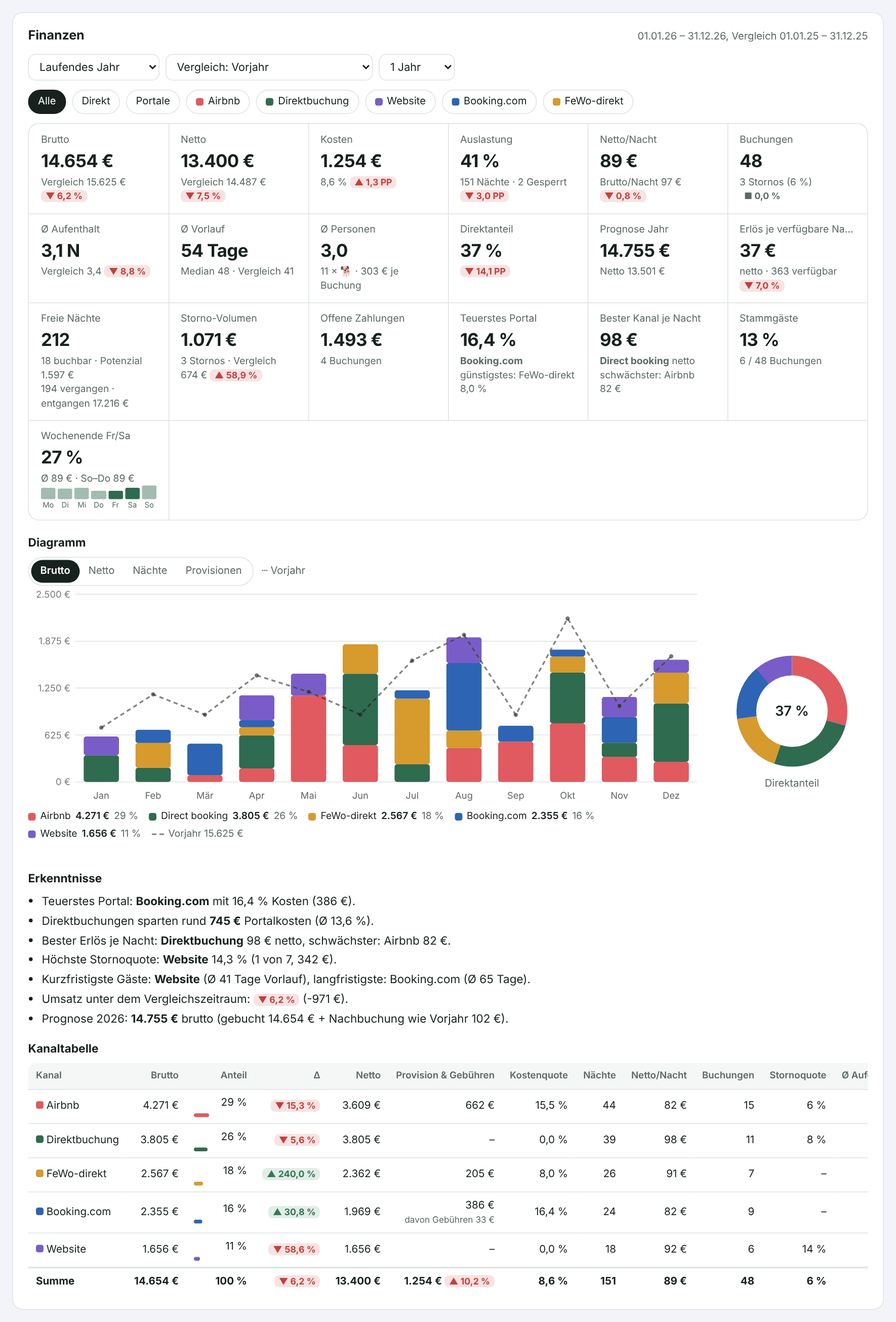
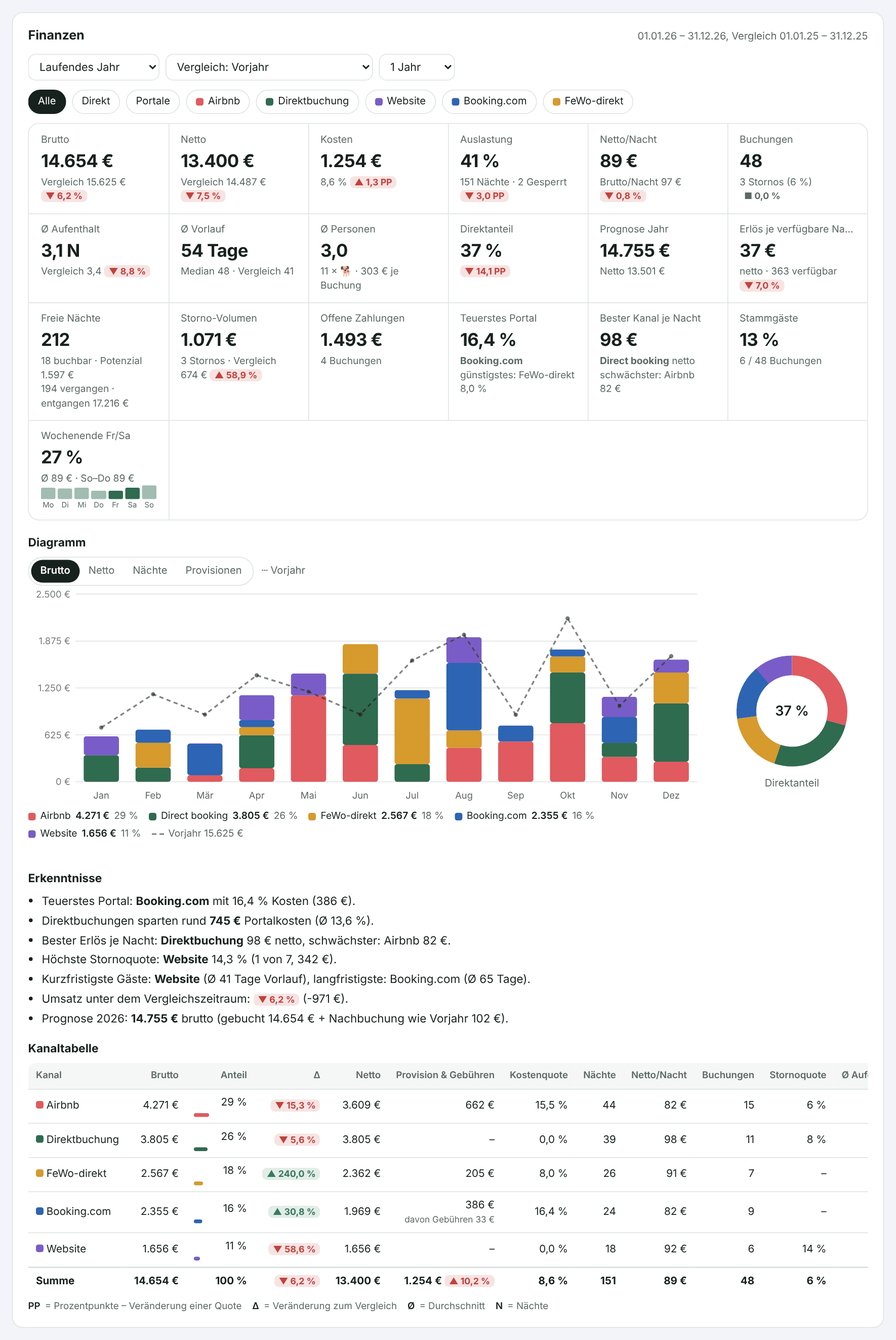
Beta 1.17.1b2: Abkürzungen in Legenden, Lücken über Belegungsplan anpassen, keine doppelte Wohnungsauswahl, Datentabelle ausgeblendet, simple_users, Rücksprung in der Kopfzeile
Claude-Session: https://claude.ai/code/session_01FCC4YWwdcrErRCiA1byYzo

diff --git a/custom_components/smoobu/www/smoobu-cards.js b/custom_components/smoobu/www/smoobu-cards.js
@@ -22,7 +22,7 @@
  * der Ausgabe maskiert (esc), damit kein fremdes HTML ausgeführt wird.
  */
 
-const SMOOBU_CARDS_VERSION = "1.17.1b1";
+const SMOOBU_CARDS_VERSION = "1.17.1b2";
 
 // ---------------------------------------------------------------------------
 // Texte (Deutsch; Englisch für HA-Oberflächen in anderer Sprache)
@@ -74,7 +74,8 @@ const EN = {
   "gebucht": "booked", "Gesperrt": "Blocked", "Monate": "months", "Diagramm": "Chart", "Sperrzeit": "Block",
   "Preis/Nacht": "Price/night", "Ersparnis Direkt": "Direct savings", "Kanaltabelle": "Channel table",
   "Neu laden": "Reload", "morgen": "tomorrow", "Heute abgereist": "Departed today", "Heute": "Today", "Ankunft": "Check-in", "Abfahrt": "Check-out", "Gäste": "Guests",
-  "Details": "Details", "In Smoobu öffnen": "Open in Smoobu", "Smoobu öffnen": "Open Smoobu",
+  "Details": "Details", "In Smoobu öffnen": "Open in Smoobu", "Smoobu öffnen": "Open Smoobu", "Zurück zu": "Back to", "Anpassen": "Adjust",
+  "Im Belegungsplan Mindestaufenthalt oder Preis setzen": "Set minimum stay or price in the occupancy plan",
   "Smoobu-Anmeldung öffnen – Buchung dort über die ID suchen": "Opens the Smoobu login – search the booking there by ID",
   "in Smoobu speichern": "save in Smoobu", "Nicht als erhalten markiert": "Not marked as received", "DRINGEND": "URGENT",
   "Antwort": "Reply", "Willkommen": "Welcome", "Anreisetag": "Arrival day", "Abreisetag": "Departure day", "Bitte um Bewertung": "Review request",
@@ -127,6 +128,30 @@ const PRICE_DE = { basePrice: ["Base price", "Grundpreis"], cleaningFee: ["Clean
   longStayDiscount: ["Long stay discount", "Langzeitrabatt"], extraGuestFee: ["Extra guest fee", "Zusatzgast"],
   discount: ["Discount", "Rabatt"], cityTax: ["City tax", "Kurtaxe"] };
 const priceName = (p) => { const m = PRICE_DE[p.typ]; return LANG === "de" && m && (!p.name || p.name === m[0]) ? m[1] : p.name || p.typ || ""; };
+// v1.17.1: Abkürzungen kurz erklärt – als Legendenzeile unter Kennzahlen/Diagrammen (gloss([...]))
+const GLOSSARY = {
+  ADR: "Ø Preis je belegter Nacht (brutto)",
+  RevPAR: "Umsatz je verfügbarer Nacht = ADR × Auslastung",
+  "Netto-RevPAR": "Netto (nach Provision und Gebühren) je verfügbarer Nacht",
+  PP: "Prozentpunkte – Veränderung einer Quote",
+  n: "Anzahl Buchungen, auf denen der Wert beruht",
+  "Vgl.": "Vergleichszeitraum",
+  "Ø": "Durchschnitt",
+  N: "Nächte",
+  "Δ": "Veränderung zum Vergleich",
+  Pace: "Buchungstempo: Buchungsstand am gleichen Tag vor dem Aufenthalt",
+  "P10–P90": "Spanne, in der 80 % der Vorjahres-Nachbuchungen lagen",
+  KW: "Kalenderwoche",
+};
+const GLOSSARY_EN = {
+  ADR: "average price per occupied night (gross)", RevPAR: "revenue per available night = ADR × occupancy",
+  "Netto-RevPAR": "net (after commission and fees) per available night", PP: "percentage points – change of a rate",
+  n: "number of bookings the value is based on", "Vgl.": "comparison period", "Ø": "average", N: "nights",
+  "Δ": "change vs. comparison", Pace: "booking pace: bookings on hand the same day before the stay",
+  "P10–P90": "range covering 80 % of prior years' late bookings", KW: "calendar week",
+};
+const gloss = (keys) => `<div class="legend gloss">${keys.filter((k) => GLOSSARY[k]).map((k) =>
+  `<span><b>${esc(k)}</b> = ${esc(LANG === "de" ? GLOSSARY[k] : GLOSSARY_EN[k])}</span>`).join("")}</div>`;
 const OCCASION_LABEL = { antwort: "Antwort", willkommen: "Willkommen", anreise: "Anreisetag", abreise: "Abreisetag", bewertung: "Bitte um Bewertung" };
 const SOURCE_LABEL = { verlauf: "aus dem Verlauf", smoobu: "aus Smoobu-Vorlage", gesendet: "gesendet", vorschlag: "KI-Vorschlag",
   bearbeitet: "bearbeitet", wissensluecke: "Wissenslücke", manuell: "manuell" };
@@ -209,6 +234,14 @@ const CSS_VARS = (p) => `--sm-bg:${p.bg};--sm-surf:${p.surf};--sm-surf2:${p.surf
   --sm-line:${p.line};--sm-accent:${p.acc};--sm-acc-ink:${p.accInk};--sm-good:${p.good};--sm-bad:${p.bad};--sm-warn:${p.warn};
   --sm-block:${p.block};`;
 
+// v1.17.1: Übergabe Übersicht → Belegungsplan (nur für diesen Tab, wird beim Lesen gelöscht)
+const Preselect = {
+  set(v) { try { sessionStorage.setItem("smoobu-preselect", JSON.stringify(v)); } catch (e) { /* privat/gesperrt */ } },
+  take() {
+    try { const v = JSON.parse(sessionStorage.getItem("smoobu-preselect") || "null"); sessionStorage.removeItem("smoobu-preselect"); return v; }
+    catch (e) { return null; }
+  },
+};
 function lsGet(k, d) { try { return localStorage.getItem(k) ?? d; } catch (e) { return d; } }
 function lsSet(k, v) { try { localStorage.setItem(k, v); } catch (e) { /* privates Fenster o. Ä. */ } }
 
@@ -258,6 +291,13 @@ const AptSel = {
   set value(v) { lsSet(APT_KEY, String(v)); this.listeners.forEach((l) => l()); },
 };
 
+// v1.17.1: Zeigt eine Kopfzeile auf dieser Seite schon die Wohnungsauswahl? Dann blendet die
+// Statistik ihre eigene (gleiche Einstellung AptSel) aus – keine doppelte Auswahl auf einer Seite
+const HeaderApts = {
+  n: 0, listeners: new Set(),
+  add() { this.n++; this.listeners.forEach((l) => l()); },
+  remove() { this.n = Math.max(0, this.n - 1); this.listeners.forEach((l) => l()); },
+};
 // Virtuelle „Wohnung“ für die Gesamtansicht: Kanäle aller Wohnungen, Währung der ersten
 function allApartment(info) {
   const ws = info.wohnungen;
@@ -353,6 +393,8 @@ const BASE_CSS = `
   h3 { margin: 18px 0 8px; font-size: .95rem; font-weight: 650; color: var(--sm-ink); }
   .sub { color: var(--sm-muted); font-size: .84rem; }
   .row { display: flex; gap: 10px; flex-wrap: wrap; align-items: center; }
+  .legend.gloss { margin-top: 6px; font-size: .78rem; color: var(--sm-muted); gap: 4px 14px; }
+  .legend.gloss b { color: var(--sm-ink); font-weight: 600; }
   .grow { flex: 1 1 auto; min-width: 0; }
   .head { display: flex; gap: 12px; flex-wrap: wrap; align-items: baseline; margin-bottom: 12px; }
   .head h2 { flex: 1 1 auto; }
@@ -716,7 +758,8 @@ function stayStatus(apt, bookings, today, now = "00:00") {
 // Übersicht (v1.15.0 neu gestaltet)
 // ===========================================================================
 class SmoobuOverviewCard extends SmoobuCard {
-  static defaults = { title: "", entities: [], upcoming: 5, gap_days: 60, band_days: 42 };
+  // belegung_path (v1.17.1): Seite mit dem Belegungsplan für „Anpassen“ bei nicht buchbaren Lücken; "" = kein Button
+  static defaults = { title: "", entities: [], upcoming: 5, gap_days: 60, band_days: 42, belegung_path: "smoobu-belegung" };
   // v1.17.1: Status hängt jetzt an der Uhrzeit (Check-in/-out). Ohne neue Daten zeichnet die Karte nicht neu –
   // ein offenes Tablet bliebe sonst bis zum nächsten Datenabruf auf „Anreise um 17:30“ stehen. Daher jede
   // Minute prüfen und nur neu zeichnen, wenn sich aktueller/nächster Gast einer Wohnung tatsächlich ändert.
@@ -1094,6 +1137,8 @@ class SmoobuOverviewCard extends SmoobuCard {
       const pr = prices.length ? (lo === hi ? money(lo, cur) : `${num(lo)}–${money(hi, cur)}`) : "";
       return `<div class="li"><div class="m"><b>${fdowLong(g.von)} bis ${fdowLong(g.bis)}${this.multi ? codeTag(g.w.kuerzel) : ""}</b>
         <span>${plural(g.naechte, t("Nacht"), t("Nächte"))} frei${g.buchbar ? (pr ? `, ${pr}` : "") : `, ${t("Mindestaufenthalt")} ${g.min}`}</span></div>
+        ${g.buchbar || !this._config.belegung_path ? "" : `<button class="lnk" data-fix="${g.w.apartment_id}|${g.von}|${iso(addDays(D(g.bis), -1))}|${g.naechte}"
+          title="${t("Im Belegungsplan Mindestaufenthalt oder Preis setzen")}">${t("Anpassen")}</button>`}
         <span class="badge ${g.buchbar ? "good" : "bad"}">${t(g.buchbar ? "buchbar" : "nicht buchbar")}</span></div>`;
     }).join("");
     const open = guests.filter((b) => status[b.id]?.offen);
@@ -1167,6 +1212,15 @@ class SmoobuOverviewCard extends SmoobuCard {
       if (!(await markPayment(this.store, b, el.dataset.pay, true, this._payCur))) el.disabled = false;
     }));
     root.querySelectorAll("[data-apt]").forEach((el) => el.addEventListener("click", () => { AptSel.value = Number(el.dataset.apt); }));
+    // v1.17.1: nicht buchbare Lücke → Belegungsplan mit markierten Tagen und vorausgefülltem Mindestaufenthalt
+    root.querySelectorAll("[data-fix]").forEach((el) => el.addEventListener("click", () => {
+      const [apt, von, bis, n] = el.dataset.fix.split("|");
+      Preselect.set({ apt: Number(apt), von, bis, min: Number(n) });
+      const path = this._config.belegung_path;
+      const parts = location.pathname.split("/").filter(Boolean);
+      history.pushState(null, "", path.startsWith("/") ? path : `/${parts[0] || "lovelace"}/${path}`);
+      window.dispatchEvent(new CustomEvent("location-changed", { detail: { replace: false } }));
+    }));
     root.querySelectorAll("[data-entity]").forEach((el) => el.addEventListener("click", () => {
       this.dispatchEvent(new CustomEvent("hass-more-info", { detail: { entityId: el.dataset.entity }, bubbles: true, composed: true }));
     }));
@@ -1238,6 +1292,12 @@ class SmoobuTimelineCard extends SmoobuCard {
   }
   body({ apt, apts, today, start, end, bookings, ratesBy }) {
     const cur = apt.currency;
+    // v1.17.1: Vorauswahl aus der Übersicht („Anpassen“ bei nicht buchbarer Lücke) einmalig übernehmen
+    const pre = this._config.actions ? Preselect.take() : null;
+    if (pre && apts.some((w) => w.apartment_id === pre.apt || !this.multi)) {
+      Object.assign(this._state, { selStart: pre.von, selEnd: pre.bis, selApt: this.multi ? pre.apt : null, panel: "rate", preMin: pre.min });
+      if (pre.von < iso(start) || pre.von >= iso(end)) Preselect.set(pre); // außerhalb der angezeigten Monate: nicht verbrauchen
+    }
     const { selStart, selEnd, selApt } = this._state;
     const lo = selStart && selEnd ? (selStart < selEnd ? selStart : selEnd) : selStart;
     const hi = selStart && selEnd ? (selStart < selEnd ? selEnd : selStart) : selStart;
@@ -1295,7 +1355,7 @@ class SmoobuTimelineCard extends SmoobuCard {
         ${p === "block" ? `<input data-k="notice" placeholder="${t("Grund (optional)")}" style="width:180px">
             <button class="btn" data-act="do-block">${t("Sperren")}</button>`
           : p === "rate" ? `<label>${t("Preis/Nacht")} <input data-k="price" type="number" min="1" step="1"></label>
-            <label>${t("Mindestaufenthalt")} <input data-k="min" type="number" min="1" max="90" style="width:70px"></label>
+            <label>${t("Mindestaufenthalt")} <input data-k="min" type="number" min="1" max="90" style="width:70px" value="${this._state.preMin || ""}"></label>
             <button class="btn" data-act="do-rate">${t("Speichern")}</button>`
           : `<button class="btn" data-act="block">🔒 ${t("Sperren")}</button><button class="btn" data-act="rate">€ ${t("Preis setzen")}</button>`}
         <button class="btn flat" data-act="clear">${t("Abbrechen")}</button></div>`
@@ -1333,7 +1393,7 @@ class SmoobuTimelineCard extends SmoobuCard {
     if (a === "prev") return this.setState({ offset: off - 1 }, true);
     if (a === "next") return this.setState({ offset: off + 1 }, true);
     if (a === "now") return this.setState({ offset: 0 }, true);
-    if (a === "clear") return this.setState({ selStart: null, selEnd: null, panel: null });
+    if (a === "clear") return this.setState({ selStart: null, selEnd: null, panel: null, preMin: null });
     if (a === "block" || a === "rate") return this.setState({ panel: a });
     const [lo, hi] = this.range();
     // Aktionen gehören immer zu genau einer Wohnung: der markierten Zeile
@@ -1351,7 +1411,7 @@ class SmoobuTimelineCard extends SmoobuCard {
           ...(price ? { price: Number(price) } : {}), ...(min ? { min_stay: Number(min) } : {}) });
       }
       toast(t("Gespeichert"));
-      this.setState({ selStart: null, selEnd: null, selApt: null, panel: null }, true);
+      this.setState({ selStart: null, selEnd: null, selApt: null, panel: null, preMin: null }, true);
     } catch (e) {
       toast(`${t("Fehler")}: ${e.message || e}`);
     }
@@ -1927,7 +1987,8 @@ class SmoobuAnalyticsCard extends SmoobuCard {
         <tfoot><tr><td>${t("Summe")}</td><td class="n">${money(r.brutto, cur)}</td><td class="n">100 %</td><td class="n">${delta(dp.brutto)}</td>
           <td class="n">${money(r.netto, cur)}</td><td class="n">${money(r.kosten, cur)} ${delta(dp.kosten, "%", true)}</td><td class="n">${pct(r.kostenquote_prozent)}</td><td class="n">${r.naechte}</td>
           <td class="n">${money(r.netto_pro_nacht, cur)}</td><td class="n">${r.buchungen}</td><td class="n">${pct(r.stornoquote_prozent, 0)}</td>
-          <td class="n">${num(r.aufenthalt_schnitt, 1)}</td><td class="n">${num(r.vorlauf_schnitt)}</td><td class="n">${num(r.personen_schnitt, 1)}</td></tr></tfoot></table></div>`;
+          <td class="n">${num(r.aufenthalt_schnitt, 1)}</td><td class="n">${num(r.vorlauf_schnitt)}</td><td class="n">${num(r.personen_schnitt, 1)}</td></tr></tfoot></table></div>
+      ${gloss(["PP", "Δ", "Ø", "N"])}`;
   }
   bind(root) {
     const s = this._state;
@@ -2430,15 +2491,14 @@ class SmoobuAssistantCard extends SmoobuCard {
           : `<span class="badge ${st.aktiv ? "good" : "bad"}" title="Automatische Antwortvorschläge">${st.aktiv ? "aktiv" : "aus"}</span>`}
         <span class="badge" title="${esc(st.ki || "")}">${esc((st.ki && this._hass?.states[st.ki]?.attributes?.friendly_name) || st.ki || t("keine KI"))}</span></div>
       ${st.ki_erlaubt === false ? `<div class="lockinfo">🔒 ${esc(st.ki_sperre || t("KI in den Integrationsoptionen deaktiviert"))}.
-        Wissensdatenbank, Lernen, Import, Tagesbriefing und Lücken funktionieren weiter – es gehen keine Daten an einen KI-Anbieter.</div>` : ""}
+        Wissensdatenbank, Lernen, Import und Tagesbriefing funktionieren weiter – es gehen keine Daten an einen KI-Anbieter.</div>` : ""}
       ${st.fehler && st.ki_erlaubt !== false ? `<div class="err">Letzter Fehler: ${esc(st.fehler)}</div>` : ""}
       <div class="grid" style="margin-top:8px">
         ${tile("Offene Vorschläge", num(st.offen.length))}
         ${tile("Wissen", num(st.wissen.filter((w) => w.status === "aktiv").length), `${st.wissen.filter((w) => w.status === "vorschlag").length} zur Freigabe`)}
         ${tile("Lernbeispiele", num(st.beispiele_anzahl))}
-        ${tile("Nicht buchbare Lücken", num(st.luecken.length))}
       </div>
-      <div class="tabs">${[["wissen", "📚 Wissen"], ["vorschlaege", "✨ Vorschläge"], ["beispiele", "🎓 Gelernt"], ["luecken", "📅 Lücken"], ["import", "⬇ Import"]]
+      <div class="tabs">${[["wissen", "📚 Wissen"], ["vorschlaege", "✨ Vorschläge"], ["beispiele", "🎓 Gelernt"], ["import", "⬇ Import"]]
         .map(([k, l]) => `<button class="chip" data-tab="${k}" aria-pressed="${tab === k}">${l}</button>`).join("")}</div>`;
     let body = "";
     if (tab === "wissen") body = this.knowledge(st);
@@ -2674,7 +2734,13 @@ function statsLayout() {
   const order = (Array.isArray(l.order) ? l.order : []).filter((id) => known.includes(id));
   for (const id of known) if (!order.includes(id)) order.push(id); // neue Module hinten anhängen
   const hidden = (Array.isArray(l.hidden) ? l.hidden : []).filter((id) => known.includes(id));
-  return { order, hidden, custom };
+  // v1.17.1: Datentabelle doppelt die Seite „Buchungen“ (inkl. CSV) → einmalig ausblenden; über ↺ wieder einblendbar
+  if ((l.defaults || 0) < 2) {
+    if (!hidden.includes("tabelle")) hidden.push("tabelle");
+    try { lsSet(STATS_LAYOUT_KEY, JSON.stringify({ ...l, order, hidden, custom, defaults: 2 })); } catch (e) { /* egal */ }
+  }
+  // defaults mitgeben, sonst blendet ein späteres saveLayout() die bewusst eingeblendete Tabelle wieder aus
+  return { order, hidden, custom, defaults: 2 };
 }
 const saveLayout = (l) => lsSet(STATS_LAYOUT_KEY, JSON.stringify(l));
 
@@ -2860,7 +2926,7 @@ const STATS_MODULES = {
       return panel(t("Belegung nach Wochentag"), `${t("Nacht von … auf …, je Kalenderwoche")}`,
         `<div class="split2"><div class="scroll"><div class="hm" style="${cols}">${html}</div>
           <div class="legend"><span class="scale"><i style="background:linear-gradient(90deg, color-mix(in srgb, var(--sm-accent) 6%, var(--sm-surf2)), var(--sm-accent))"></i>0 – 100 %</span>
-          <span>${t("Zahlen oben = Kalenderwoche")}</span></div></div>
+          <span>${t("Zahlen oben = Kalenderwoche")}</span></div>${gloss(["ADR", "n"])}</div>
           <div><div class="kl" style="margin-bottom:6px">${t("Auslastung je Wochentag")}</div>${bars}</div></div>`);
     },
   },
@@ -3190,7 +3256,7 @@ class SmoobuStatsCard extends SmoobuCard {
   // Optionen: period (monat|quartal|saison|jahr), compare (stichtag|vorjahr|vorperiode),
   // matrix_exclude_years (aus dem Ø der Saison-Matrix ausgenommene Jahre, Standard 2020 = Lockdown),
   // matrix_since (erstes Jahr der Matrix, Standard = erste Anreise in den Daten)
-  static defaults = { title: "", period: "jahr", compare: "stichtag", matrix_exclude_years: [2020], matrix_since: null };
+  static defaults = { title: "", period: "jahr", compare: "stichtag", matrix_exclude_years: [2020], matrix_since: null, simple_users: [] };
   static initialState = (c) => ({ ptype: c.period, anchor: null, from: null, to: null, compare: c.compare, channels: [],
     raster: "auto", focus: "umsatz", matrix: "auslastung", paceYear: null, edit: false, builder: false, tableAll: false,
     bzMeasure: "naechte", bzBasis: "alle", bzView: "kalender", // Standard „Gebucht im → für“ (Wunsch Betreiber 16.11.2026)
@@ -3336,11 +3402,23 @@ class SmoobuStatsCard extends SmoobuCard {
       .fc .big { font-size: 1.8rem; }
     }
   `;
-  // Werkbank oder Einfach (je Gerät; ohne gespeicherte Wahl: schmale Fenster = Einfach)
+  // Werkbank oder Einfach (je Gerät; ohne gespeicherte Wahl: Nutzer aus simple_users oder schmale Fenster = Einfach)
+  // v1.17.1: simple_users = Liste von HA-Benutzernamen oder -IDs, die ohne eigene Wahl mit „Einfach“ starten
   get mode() {
     const m = lsGet(STATS_MODE_KEY, "");
     if (m === "werkbank" || m === "einfach") return m;
+    const u = this._hass?.user || {};
+    const su = (this._config.simple_users || []).map((x) => String(x).toLowerCase());
+    if (su.includes(String(u.name || "").toLowerCase()) || su.includes(String(u.id || "").toLowerCase())) return "einfach";
     return (window.innerWidth || 1200) < 700 ? "einfach" : "werkbank";
+  }
+  // v1.17.1: neu zeichnen, wenn eine Kopfzeile mit Wohnungsauswahl erscheint/verschwindet
+  _listen() {
+    super._listen();
+    const onHdr = () => { if (this._data) this.render(); };
+    HeaderApts.listeners.add(onHdr);
+    const base = this._unsub;
+    this._unsub = () => { base?.(); HeaderApts.listeners.delete(onHdr); };
   }
   async load() {
     const info = await this.store.getInfo();
@@ -3496,7 +3574,7 @@ class SmoobuStatsCard extends SmoobuCard {
     if (simple) return `<div class="fbar">${period}${anchor}${cmp}</div>`;
     const ws = d.info.wohnungen;
     const sel = this.target.apartment_id;
-    const apts = ws.length > 1 && !this._config.apartment_id
+    const apts = ws.length > 1 && !this._config.apartment_id && !HeaderApts.n
       ? `<span class="sep"></span><span class="grp"><span class="lbl">${t("Wohnung")}</span><div class="seg">
           <button data-apt="${ALL}" aria-pressed="${sel === ALL}">${t("Alle")}</button>${ws.map((w) =>
           `<button data-apt="${w.apartment_id}" aria-pressed="${sel === w.apartment_id}" title="${esc(w.name)}">${esc(w.kuerzel || w.name)}</button>`).join("")}</div></span>` : "";
@@ -3522,7 +3600,7 @@ class SmoobuStatsCard extends SmoobuCard {
         <div class="kl">${esc(t(k.label))}</div><div class="kv">${this.fmt(k.id, v, cur)}${this.dlt(k, v, c)}</div>
         <div class="ks">${t("Vgl.")} ${this.fmt(k.id, c, cur)} · n = ${num(n)}${low ? ` · <span class="lowtag">${t("wenig Daten")}</span>` : ""}</div>
         ${sparkline(x.ser.map((p) => p.wert), x.serC.map((p) => p.wert))}</button>`;
-    }).join("")}</section>`;
+    }).join("")}</section>${gloss([...list.map((k) => k.label).filter((l) => GLOSSARY[l]), ...(list.some((k) => k.pp) ? ["PP"] : []), "Vgl.", "n"])}`;
   }
   // Großer Verlauf der Fokus-Kennzahl: Balken = Zeitraum, gestrichelte Linie = Vergleich (gleiche Achse)
   focusChart(d) {
@@ -3564,7 +3642,8 @@ class SmoobuStatsCard extends SmoobuCard {
       <svg class="ch" viewBox="0 0 ${W} ${H}" role="img" aria-label="${esc(t(k.label))}">${svg}</svg>
       <div class="legend"><span><i style="background:var(--sm-accent)"></i><b>${esc(statsLabel(this._state.ptype, d.range))}</b> ${this.fmt(k.id, x.tot.wert, cur)}</span>
         <span><i class="ln"></i>${esc(this.cmpName(d))} ${this.fmt(k.id, x.cmp.wert, cur)}</span>
-        <span><i style="background:var(--sm-accent);opacity:.38"></i>${t("blass = weniger als 5 Buchungen")}</span></div></div>`;
+        <span><i style="background:var(--sm-accent);opacity:.38"></i>${t("blass = weniger als 5 Buchungen")}</span></div>
+      ${GLOSSARY[k.label] ? gloss([k.label]) : ""}</div>`;
   }
 
   // ---- Modul 2: Buchungstempo (Pace) ----
@@ -3645,7 +3724,8 @@ class SmoobuStatsCard extends SmoobuCard {
       <div class="legend"><span><i class="ln solid" style="color:var(--sm-accent)"></i><b>${esc(target)}</b></span>
         ${years[1] ? `<span><i class="ln solid" style="opacity:.6"></i>${esc(years[1])}</span>` : ""}
         ${older.length ? `<span><i class="ln" style="opacity:.4"></i>${esc(older.join(", "))}</span>` : ""}
-        ${p.prognose ? `<span><i style="background:var(--sm-accent);opacity:.3"></i>${t("Prognose-Spanne")} P10–P90</span>` : ""}</div></div>`;
+        ${p.prognose ? `<span><i style="background:var(--sm-accent);opacity:.3"></i>${t("Prognose-Spanne")} P10–P90</span>` : ""}</div>
+      ${gloss(p.prognose ? ["Pace", "P10–P90"] : ["Pace"])}</div>`;
   }
   paceYearSel(d) {
     const ty = D(d.today).getFullYear();
@@ -3754,7 +3834,8 @@ class SmoobuStatsCard extends SmoobuCard {
         <span><i style="border:1px dashed currentColor;background:none"></i>${t("noch nicht abgeschlossen")}</span>
         <span><i style="box-shadow:inset 0 0 0 2px var(--sm-ink);background:none"></i>${t("gewählter Zeitraum")}</span>
         <span><i style="background:var(--sm-warn);width:6px;height:6px;border-radius:50%"></i><em>${t("kursiv")}</em> = ${t("weniger als 5 Buchungen")}</span>
-        <span>${exShown.length ? `* Ø ${t("ohne")} ${exShown.join(", ")}, ` : "Ø "}${t("nur abgeschlossene Monate")}</span></div></div>`;
+        <span>${exShown.length ? `* Ø ${t("ohne")} ${exShown.join(", ")}, ` : "Ø "}${t("nur abgeschlossene Monate")}</span></div>
+      ${gloss([...(id === "adr" ? ["ADR"] : id === "revpar" ? ["RevPAR"] : []), "Ø"])}</div>`;
   }
 
   body(d) {
@@ -3959,7 +4040,8 @@ const ICON_SVG = {
   system: `<svg viewBox="0 0 24 24"><rect x="3" y="4" width="18" height="12" rx="2"/><path d="M8 20h8M12 16v4"/></svg>`,
 };
 class SmoobuHeaderCard extends SmoobuCard {
-  static defaults = { pages: DEFAULT_PAGES, show_apartments: true, page_background: true };
+  // home (v1.17.1): optionaler Rücksprung vor den Reitern, z. B. { name: "Host", path: "/dashboard-ferienwohnung/host" }
+  static defaults = { pages: DEFAULT_PAGES, show_apartments: true, page_background: true, home: null };
   static css = `
     ha-card { background: none; border: 0; padding: 14px 0 2px; overflow: visible; } /* Abstand zur HA-Kopfzeile */
     .bar { display: flex; justify-content: space-between; align-items: center; gap: 12px; flex-wrap: wrap; }
@@ -3968,6 +4050,8 @@ class SmoobuHeaderCard extends SmoobuCard {
       display: inline-flex; align-items: center; gap: 6px; white-space: nowrap; }
     .tabs a:hover { color: var(--sm-ink); background: color-mix(in srgb, var(--sm-ink) 6%, transparent); }
     .tabs a.on { background: var(--sm-accent); color: var(--sm-acc-ink); font-weight: 600; }
+    .tabs a.home { color: var(--sm-ink); font-weight: 600; }
+    .tabs .hsep { width: 1px; align-self: stretch; margin: 6px 4px; background: var(--sm-line); }
     .tabs i { font-style: normal; font-size: .7rem; font-weight: 700; background: var(--sm-bad); color: #fff; border-radius: 9px; padding: 0 6px; line-height: 1.5; }
     .right { display: flex; gap: 10px; flex-wrap: wrap; align-items: center; }
     .seg button { display: inline-flex; gap: 6px; align-items: center; }
@@ -4031,10 +4115,13 @@ class SmoobuHeaderCard extends SmoobuCard {
     const here = location.pathname.split("/").filter(Boolean).pop();
     const known = this.viewPaths();
     const pages = (this._config.pages || []).filter((p) => !p.optional || !known || known.has(p.path));
-    const tabs = pages.map((p) => `<a class="${p.path === here ? "on" : ""}" data-href="${esc(this.href(p.path))}">${esc(t(p.name))}${p.badge === "nachrichten" && open ? `<i>${open}</i>` : ""}</a>`).join("");
+    const home = this._config.home?.path ? `<a class="home" data-href="${esc(this.href(this._config.home.path))}" title="${esc(t("Zurück zu"))} ${esc(this._config.home.name || "")}">← ${esc(t(this._config.home.name || "Zurück"))}</a><span class="hsep"></span>` : "";
+    const tabs = home + pages.map((p) => `<a class="${p.path === here ? "on" : ""}" data-href="${esc(this.href(p.path))}">${esc(t(p.name))}${p.badge === "nachrichten" && open ? `<i>${open}</i>` : ""}</a>`).join("");
     const ws = info.wohnungen;
     const sel = this.target.apartment_id;
-    const apts = this._config.show_apartments && ws.length > 1 && !this._config.apartment_id
+    const showApts = this._config.show_apartments && ws.length > 1 && !this._config.apartment_id;
+    if (showApts !== !!this._aptReg) { this._aptReg = showApts; showApts ? HeaderApts.add() : HeaderApts.remove(); }
+    const apts = showApts
       ? `<div class="seg" role="group" aria-label="${t("Wohnung")}"><button data-apt="${ALL}" aria-pressed="${sel === ALL}">${t("Alle")}<span class="n">${ws.length}</span></button>
         ${ws.map((w) => `<button data-apt="${w.apartment_id}" aria-pressed="${sel === w.apartment_id}" title="${esc(w.name)}">${esc(w.name)}</button>`).join("")}</div>` : "";
     const mode = Theme.mode;
@@ -4059,7 +4146,10 @@ class SmoobuHeaderCard extends SmoobuCard {
     view.style.background = PAL[DARK ? "dark" : "light"].bg;
   }
   _restoreBg() { if (this._view) { this._view.style.background = this._prevBg || ""; this._view = null; } }
-  disconnectedCallback() { this._restoreBg(); super.disconnectedCallback(); }
+  disconnectedCallback() {
+    if (this._aptReg) { this._aptReg = false; HeaderApts.remove(); }
+    this._restoreBg(); super.disconnectedCallback();
+  }
   bind(root) {
     root.querySelectorAll("[data-href]").forEach((el) => el.addEventListener("click", () => {
       history.pushState(null, "", el.dataset.href);

diff --git a/CHANGELOG.md b/CHANGELOG.md
@@ -8,6 +8,25 @@ Changes are collected on the `develop` branch under "Unreleased". A release is c
 
 ## Unveröffentlicht / Unreleased
 
+## 1.17.1b2 – 2026-11-16
+
+> Beta / Pre-release
+
+**Deutsch**
+- **Abkürzungen erklärt:** kurze Legendenzeile mit ADR (Ø Preis je belegter Nacht), RevPAR (Umsatz je verfügbarer Nacht = ADR × Auslastung), Netto-RevPAR, PP (Prozentpunkte), n, Vgl., Ø, N, Δ, Pace, P10–P90 und KW – unter der Kennzahlenleiste und dem Verlauf der Statistik, in Saison-Matrix, Wochentag-Belegung, Buchungstempo und unter der Kanaltabelle der Finanzen
+- **Lücken an einer Stelle bearbeiten:** in der Übersicht bei „nicht buchbar“ neuer Button „Anpassen“ → öffnet den Belegungsplan mit markierten Tagen und vorausgefülltem Mindestaufenthalt (Option `belegung_path`, Standard `smoobu-belegung`, leer = ohne Button); Reiter und Kachel „Lücken“ im Assistenten entfallen (Auswertung bleibt in Statistik → Verlorene Nächte)
+- **Keine doppelte Wohnungsauswahl:** die Statistik blendet ihre eigene Auswahl aus, sobald die Kopfzeile eine zeigt (gleiche Einstellung)
+- **Statistik:** Modul „Datentabelle“ standardmäßig ausgeblendet (doppelt die Seite Buchungen inkl. CSV), über ↺ wieder einblendbar; neue Option `simple_users` (Benutzername oder -ID) – diese Nutzer starten ohne eigene Wahl in „Einfach“
+- **Kopfzeile:** optionaler Rücksprung vor den Reitern (`home: {name, path}`), z. B. „← Host“
+
+**English**
+- **Abbreviations explained:** short legend line for ADR, RevPAR, net RevPAR, PP, n, Vgl., Ø, N, Δ, pace, P10–P90 and KW – below the statistics KPI bar and trend, in season matrix, weekday occupancy, booking pace and below the finance channel table
+- **Fix gaps in one place:** in the overview "not bookable" gaps get an "Adjust" button → opens the occupancy plan with the days selected and minimum stay prefilled (option `belegung_path`, default `smoobu-belegung`, empty = no button); the assistant's "Gaps" tab and tile are gone (analysis stays in statistics → lost nights)
+- **No duplicate apartment picker:** statistics hides its own picker when the header shows one (same setting)
+- **Statistics:** "Data table" module hidden by default (duplicates the bookings page incl. CSV), can be restored via ↺; new option `simple_users` (user name or ID) – these users start in "Simple" without a stored choice
+- **Header:** optional back link before the tabs (`home: {name, path}`), e.g. "← Host"
+
+
 ## 1.17.1b1 – 2026-11-16
 
 > Beta / Pre-release
